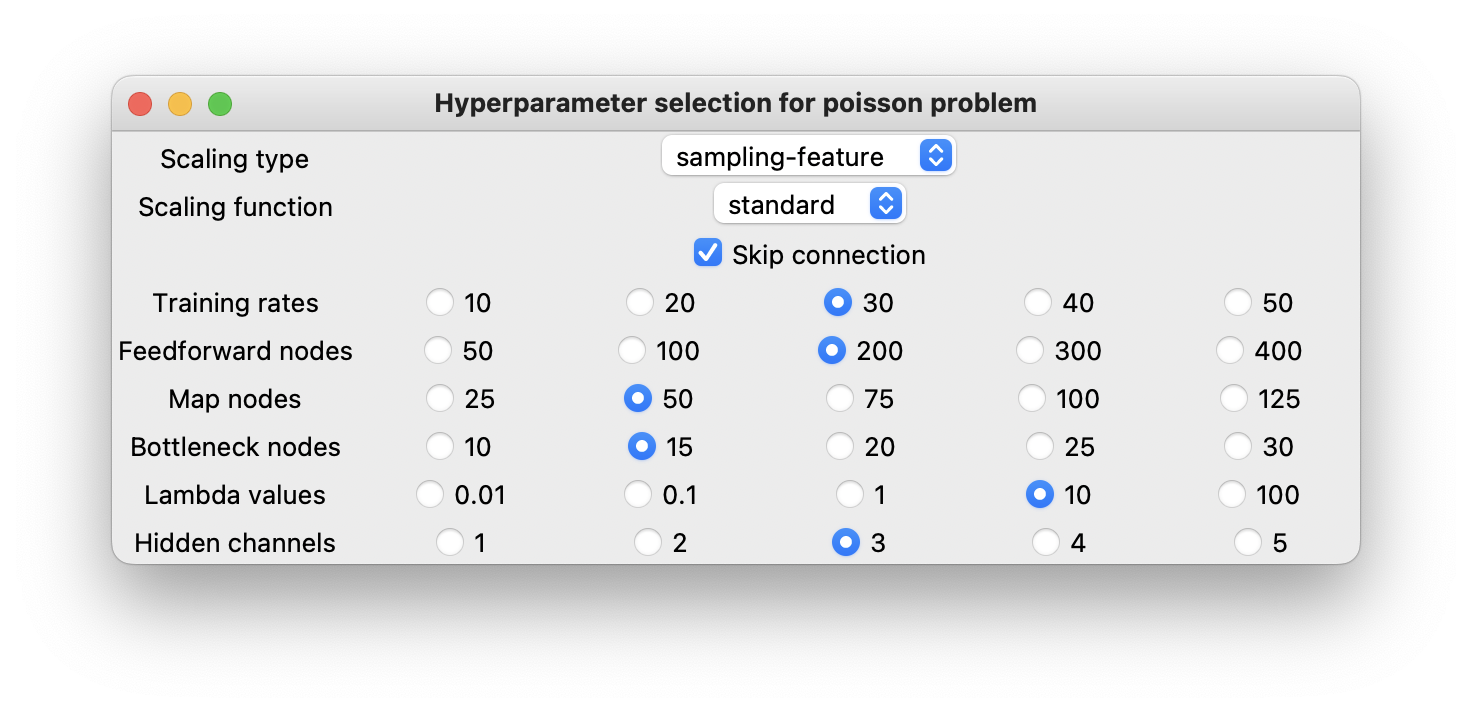
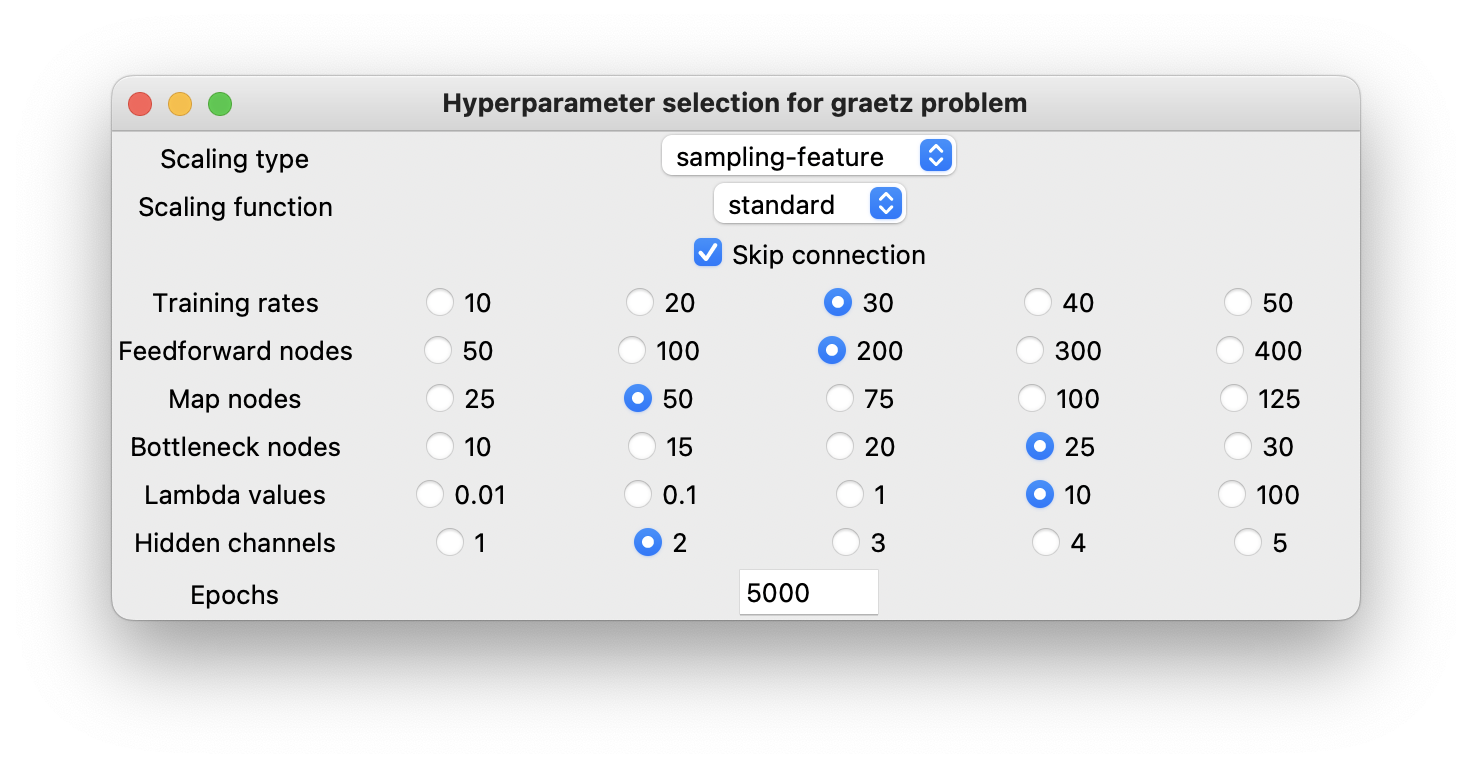
Add epochs selection to gui

diff --git a/gca_rom/gui.py b/gca_rom/gui.py
@@ -28,6 +28,9 @@ def hyperparameters_selection(name, var, n):
     def on_option_selected_8(*args):
         selected_option_8.set(selected_var_8.get())
 
+    def on_option_selected_9(selected_option_9):
+        global epochs
+        epochs = selected_option_9.get()
 
     def default_values(name):
         if name == "poisson":
@@ -58,6 +61,7 @@ def hyperparameters_selection(name, var, n):
     preset_options_6 = ["10", "15", "20", "25", "30"]
     preset_options_7 = ["0.01", "0.1", "1", "10", "100"]
     preset_options_8 = ["1", "2", "3", "4", "5"]
+    preset_options_9 = ["5000"]
 
     try:
         root=tk.Tk()
@@ -72,7 +76,7 @@ def hyperparameters_selection(name, var, n):
         labelBox_1.grid(row=row, column=0, columnspan=2)
         selected_var_1 = tk.StringVar(root)  # Variable to store the selected option
         selected_var_1.set(preset_options_1[preset[0]])  # Set the default value
-        selected_option_1 = tk.StringVar(root)  # Label to display the selected option
+        selected_option_1 = tk.StringVar(root)
         selected_option_1.set(selected_var_1.get())
         dropdown_menu_1 = tk.OptionMenu(root, selected_var_1, *preset_options_1)  # Create and place the OptionMenu widget
         dropdown_menu_1.grid(row=row, column=5, columnspan=3)
@@ -86,7 +90,7 @@ def hyperparameters_selection(name, var, n):
         labelBox_2.grid(row=row, column=0, columnspan=2)
         selected_var_2 = tk.StringVar(root)  # Variable to store the selected option
         selected_var_2.set(preset_options_2[preset[1]])  # Set the default value
-        selected_option_2 = tk.StringVar(root)  # Label to display the selected option
+        selected_option_2 = tk.StringVar(root)
         selected_option_2.set(selected_var_2.get())
         dropdown_menu_2 = tk.OptionMenu(root, selected_var_2, *preset_options_2)  # Create and place the OptionMenu widget
         dropdown_menu_2.grid(row=row, column=5, columnspan=3)
@@ -107,7 +111,7 @@ def hyperparameters_selection(name, var, n):
         labelBox_3.grid(row=row, column=0, columnspan=2)
         selected_var_3 = tk.IntVar(root)
         selected_var_3.set(preset_options_3[preset[2]])
-        selected_option_3 = tk.IntVar()  # Label to display the selected option
+        selected_option_3 = tk.IntVar()
         selected_option_3.set(selected_var_3.get())
         radio_button1_3 = tk.Radiobutton(root, text="10", variable=selected_var_3, value=10, command=on_option_selected_3)
         radio_button1_3.grid(row=row, column=2, columnspan=2)
@@ -128,7 +132,7 @@ def hyperparameters_selection(name, var, n):
         labelBox_4.grid(row=row, column=0, columnspan=2)
         selected_var_4 = tk.IntVar(root)
         selected_var_4.set(preset_options_4[preset[3]])
-        selected_option_4 = tk.IntVar()  # Label to display the selected option
+        selected_option_4 = tk.IntVar()
         selected_option_4.set(selected_var_4.get())
         radio_button1_4 = tk.Radiobutton(root, text="50", variable=selected_var_4, value=50, command=on_option_selected_4)
         radio_button1_4.grid(row=row, column=2, columnspan=2)
@@ -149,7 +153,7 @@ def hyperparameters_selection(name, var, n):
         labelBox_5.grid(row=row, column=0, columnspan=2)
         selected_var_5 = tk.IntVar(root)
         selected_var_5.set(preset_options_5[preset[4]])
-        selected_option_5 = tk.IntVar()  # Label to display the selected option
+        selected_option_5 = tk.IntVar()
         selected_option_5.set(selected_var_5.get())
         radio_button1_5 = tk.Radiobutton(root, text="25", variable=selected_var_5, value=25, command=on_option_selected_5)
         radio_button1_5.grid(row=row, column=2, columnspan=2)
@@ -162,7 +166,6 @@ def hyperparameters_selection(name, var, n):
         radio_button5_5 = tk.Radiobutton(root, text="125", variable=selected_var_5, value=125, command=on_option_selected_5)
         radio_button5_5.grid(row=row, column=10, columnspan=2)
 
-
         # RADIO BUTTON
         row = 6
         labelText_6=tk.StringVar()
@@ -171,7 +174,7 @@ def hyperparameters_selection(name, var, n):
         labelBox_6.grid(row=row, column=0, columnspan=2)
         selected_var_6 = tk.IntVar(root)
         selected_var_6.set(preset_options_6[preset[5]])
-        selected_option_6 = tk.IntVar()  # Label to display the selected option
+        selected_option_6 = tk.IntVar()
         selected_option_6.set(selected_var_6.get())
         radio_button1_6 = tk.Radiobutton(root, text="10", variable=selected_var_6, value=10, command=on_option_selected_6)
         radio_button1_6.grid(row=row, column=2, columnspan=2)
@@ -192,7 +195,7 @@ def hyperparameters_selection(name, var, n):
         labelBox_7.grid(row=row, column=0, columnspan=2)
         selected_var_7 = tk.DoubleVar(root)
         selected_var_7.set(preset_options_7[preset[6]])
-        selected_option_7 = tk.DoubleVar()  # Label to display the selected option
+        selected_option_7 = tk.DoubleVar()
         selected_option_7.set(selected_var_7.get())    
         radio_button1_7 = tk.Radiobutton(root, text="0.01", variable=selected_var_7, value=0.01, command=on_option_selected_7)
         radio_button1_7.grid(row=row, column=2, columnspan=2)
@@ -213,7 +216,7 @@ def hyperparameters_selection(name, var, n):
         labelBox_8.grid(row=row, column=0, columnspan=2)
         selected_var_8 = tk.IntVar(root)
         selected_var_8.set(preset_options_8[preset[7]])
-        selected_option_8 = tk.IntVar()  # Label to display the selected option
+        selected_option_8 = tk.IntVar()
         selected_option_8.set(selected_var_8.get())
         radio_button1_8 = tk.Radiobutton(root, text="1", variable=selected_var_8, value=1, command=on_option_selected_8)
         radio_button1_8.grid(row=row, column=2, columnspan=2)
@@ -225,6 +228,18 @@ def hyperparameters_selection(name, var, n):
         radio_button4_8.grid(row=row, column=8, columnspan=2)
         radio_button5_8 = tk.Radiobutton(root, text="5", variable=selected_var_8, value=5, command=on_option_selected_8)
         radio_button5_8.grid(row=row, column=10, columnspan=2)
+
+        # INSERT BUTTON
+        row = 9
+        labelText_9=tk.StringVar()
+        labelText_9.set("Epochs")
+        labelBox_9=tk.Label(root, textvariable=labelText_9)
+        labelBox_9.grid(row=row, column=0, columnspan=2)
+        selected_option_9 = tk.StringVar()
+        selected_option_9.trace("w", lambda name, index, mode, selected_option_9=selected_option_9: on_option_selected_9(selected_option_9))
+        entry = tk.Entry(root, textvariable=selected_option_9, width=7)
+        entry.insert(0, str(preset_options_9[0])) 
+        entry.grid(row=row, column=5, columnspan=3)
 
         # Fix the width of the first column
         root.columnconfigure(0, minsize=200, weight=1)
@@ -239,11 +254,11 @@ def hyperparameters_selection(name, var, n):
         flag1 = int(flag1.get() == True)
         argv = [name, var, selected_ind_1, selected_ind_2, flag1,
                 selected_option_3.get(), selected_option_4.get(), selected_option_5.get(),
-                selected_option_6.get(), selected_option_7.get(), selected_option_8.get(), n]
+                selected_option_6.get(), selected_option_7.get(), selected_option_8.get(), n, int(selected_option_9.get())]
 
     except tk.TclError:
         argv = [name, var, preset[0] + 1, preset[1] + 1, 1,
                 int(preset_options_3[preset[2]]), int(preset_options_4[preset[3]]), int(preset_options_5[preset[4]]),
-                int(preset_options_6[preset[5]]), float(preset_options_7[preset[6]]), int(preset_options_8[preset[7]]), n]
+                int(preset_options_6[preset[5]]), float(preset_options_7[preset[6]]), int(preset_options_8[preset[7]]), n, int(preset_options_9[0])]
 
     return argv

diff --git a/gca_rom/network.py b/gca_rom/network.py
@@ -3,7 +3,6 @@ from torch import nn
 from gca_rom import gca, scaling
 
 
-
 class HyperParams:
     """Class that holds the hyperparameters for the autoencoder model.
 
@@ -56,7 +55,7 @@ class HyperParams:
         self.layer_vec=[argv[11], self.nodes, self.nodes, self.nodes, self.nodes, self.bottleneck_dim]
         self.net_run = '_' + self.scaler_name
         self.weight_decay = 0.00001
-        self.max_epochs = 5000
+        self.max_epochs = argv[12]
         self.miles = []
         self.gamma = 0.0001
         self.num_nodes = 0
